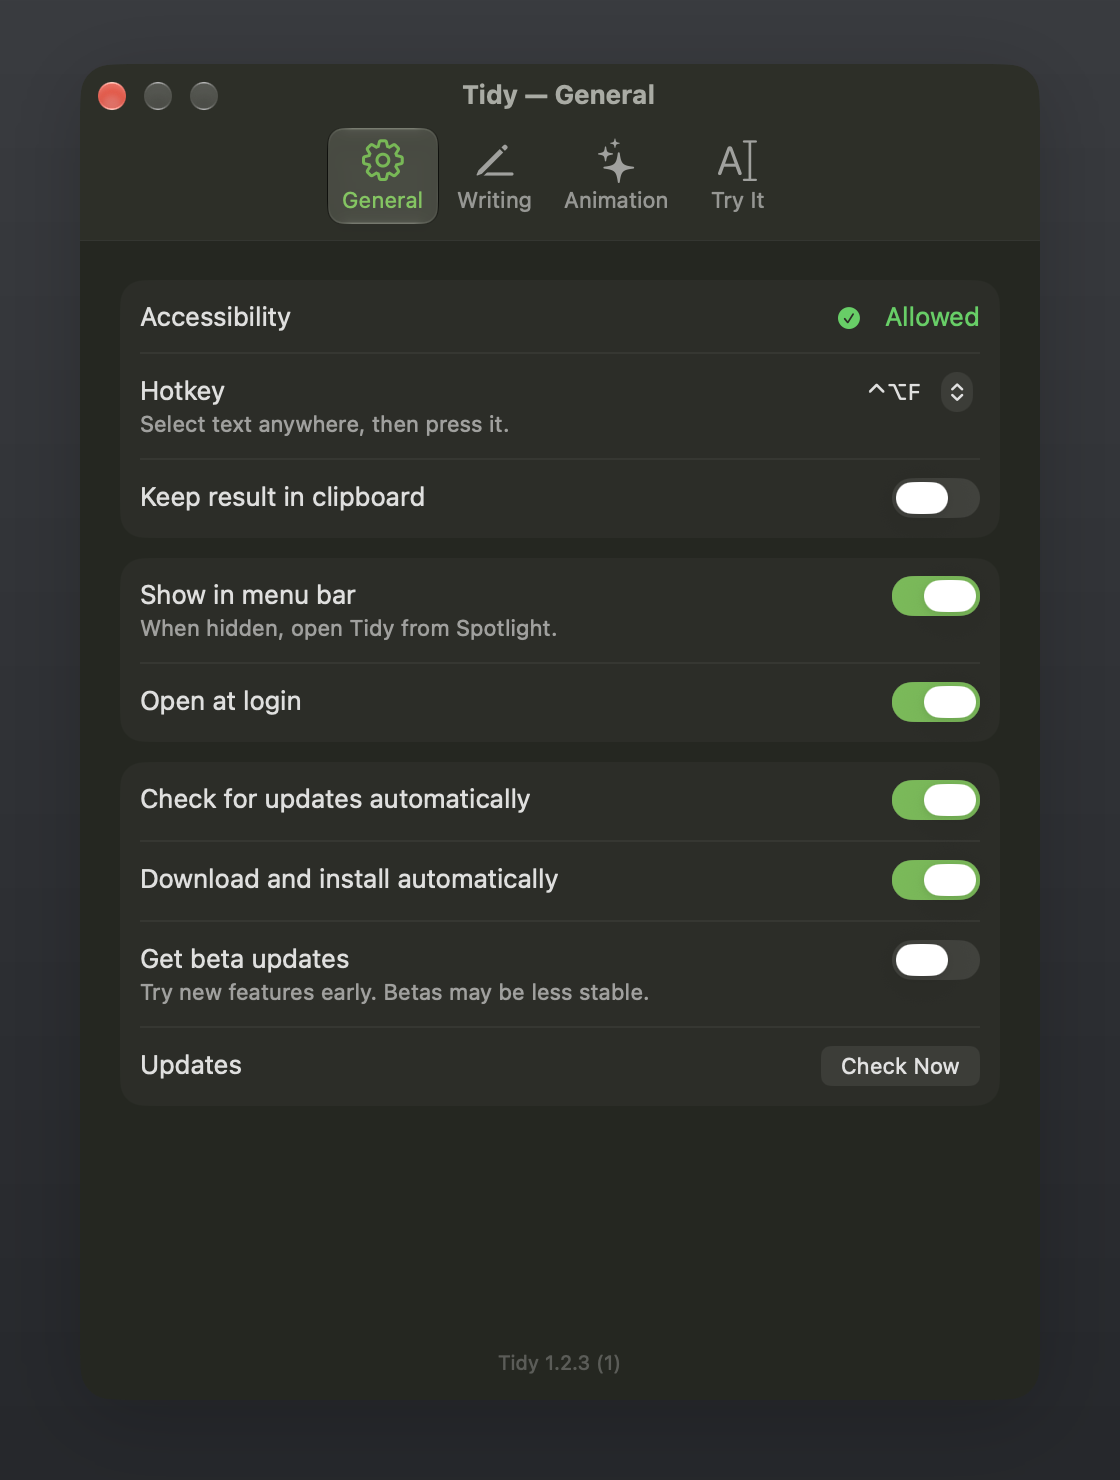
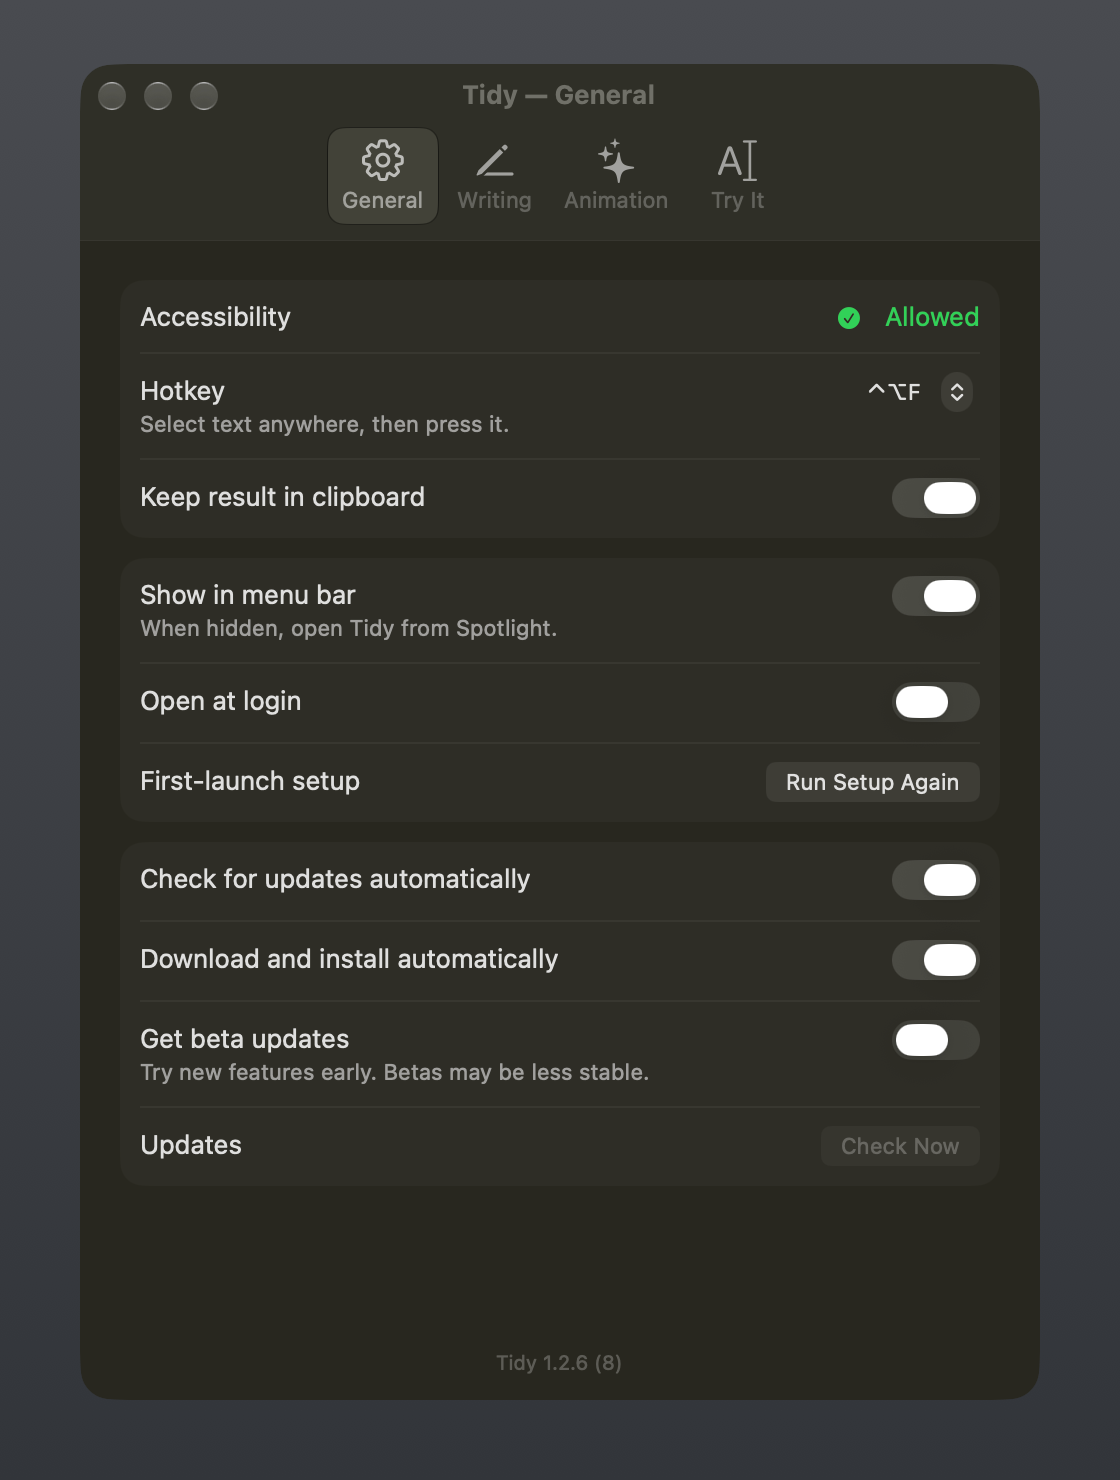
Version 1.2.6

diff --git a/Sources/Tidy.swift b/Sources/Tidy.swift
@@ -495,6 +495,9 @@ struct TidyApp: App {
 }
 
 final class SettingsUI: ObservableObject {
+    nonisolated(unsafe) static var runSetup: () -> Void = {
+        MainActor.assumeIsolated { SetupWindow.shared.show() }
+    }
     static let shared = SettingsUI()
     @Published var tab = CommandLine.arguments.first { $0.hasPrefix("--tab=") }.map { String($0.dropFirst(6)) } ?? "settings"
     @Published var input = "hey how are u going, did u saw my mesage? i think its broke the export again"
@@ -603,6 +606,10 @@ struct SettingsView: View {
                     .onChange(of: ui.openAtLogin) { _, on in ui.setLogin(on) }
                 if !ui.loginError.isEmpty {
                     Text(ui.loginError).font(.caption).foregroundStyle(.red)
+                }
+                LabeledContent("First-launch setup") {
+                    Button("Run Setup Again") { SettingsUI.runSetup() }
+                        .help("Open first-launch setup. Your current settings are kept.")
                 }
             }
             UpdatesSection()

diff --git a/README.md b/README.md
@@ -61,7 +61,9 @@ If Claude is unavailable, Tidy can fall back to the local model.
 4. **First launch:** a short setup walks you through allowing **Accessibility** (the button opens that page in
    System Settings; Tidy needs it to copy your selection and paste the fixed text), choosing Local or Haiku,
    your style and hotkey, and a quick try — with a little confetti at the end.
-   Run it again any time from the menu: **Set Up Tidy…**
+   Skipped it? Everything from setup is also in Settings: Accessibility and the hotkey in General,
+   model and style in Writing, and the Try It pane. Run it again with **Run Setup Again** in
+   Settings → General or **Set Up Tidy…** in the menu — your current settings are kept.
 
 <p align="center">
   <img src="docs/screenshots/setup-welcome.png" width="200" alt="Setup: welcome">
